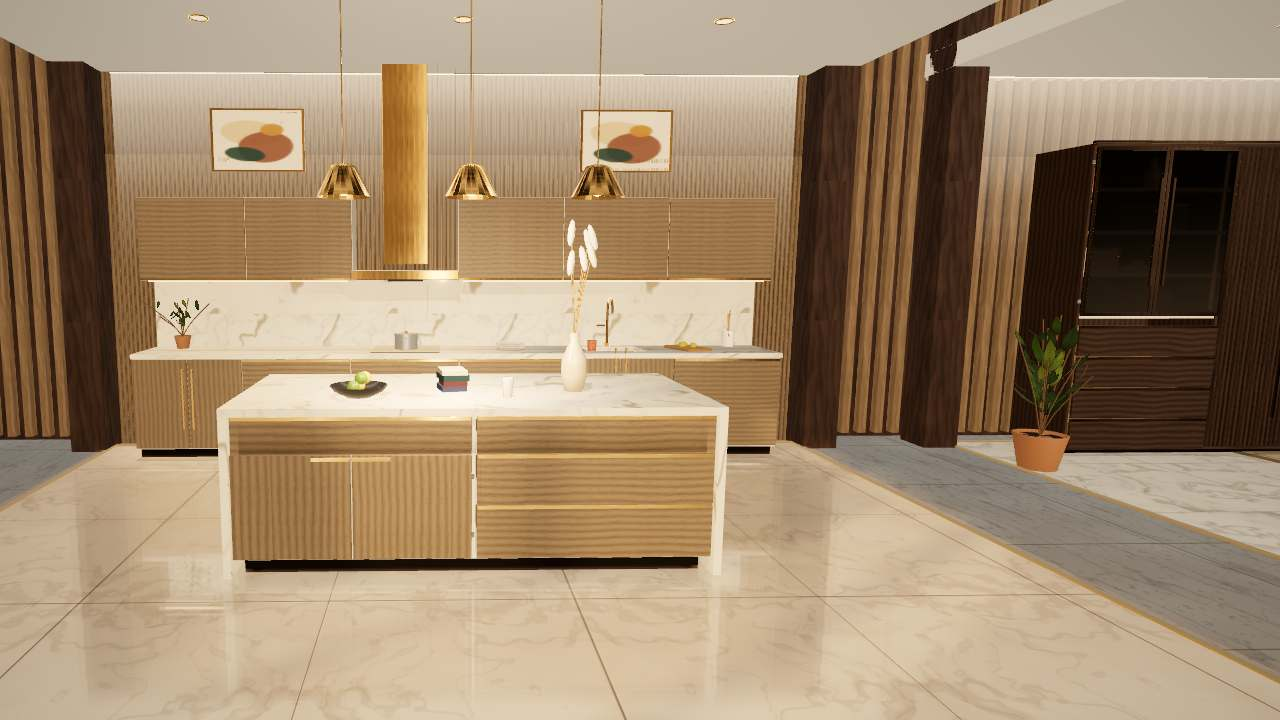
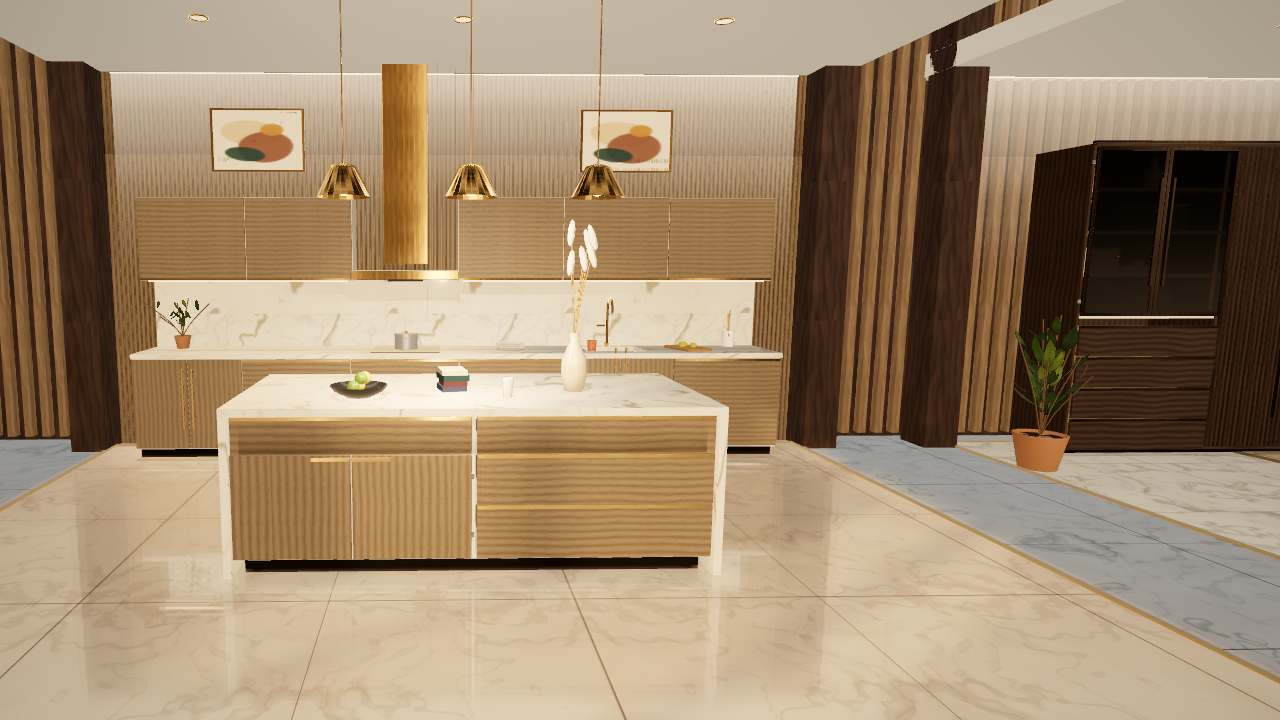
Showroom 3D realism pass 5: mirror steep-angle fade, phase4b screenshots
Claude-Session: https://claude.ai/code/session_017ZaR8CiDH3TQygKUjUtw2u

Changed region(s): [[0.625, 0.5806, 1.0, 0.9472], [0.0, 0.6111, 0.0625, 0.7028]]

diff --git a/src/showroom3d/3d/mirror.js b/src/showroom3d/3d/mirror.js
@@ -11,7 +11,7 @@ uniform sampler2D tMap; uniform float uStr; varying vec4 vProj; varying vec3 vW;
 void main(){
   if (vProj.w <= 0.001) discard;
   vec2 uv = vProj.xy / vProj.w; if (uv.x < 0.0 || uv.x > 1.0 || uv.y < 0.0 || uv.y > 1.0) discard; vec3 V = normalize(cameraPosition - vW);
-  float fres = 0.16 + 0.84 * pow(1.0 - clamp(V.y, 0.0, 1.0), 2.5);
+  float fres = (0.16 + 0.84 * pow(1.0 - clamp(V.y, 0.0, 1.0), 2.5)) * (1.0 - smoothstep(0.6, 0.82, V.y));   // no reflection when looking steeply down at the floor (the mirrored camera then sees nothing useful)
   float r = 0.0045 + 0.004 * clamp(length(cameraPosition - vW) / 14.0, 0.0, 1.0);
   vec4 a = texture2D(tMap, uv) * 0.36 + texture2D(tMap, uv + vec2(r, 0.0)) * 0.16 + texture2D(tMap, uv - vec2(r, 0.0)) * 0.16 + texture2D(tMap, uv + vec2(0.0, r * 1.6)) * 0.16 + texture2D(tMap, uv - vec2(0.0, r * 1.6)) * 0.16;
   float edge = smoothstep(0.0, 0.04, uv.x) * smoothstep(1.0, 0.96, uv.x) * smoothstep(0.0, 0.04, uv.y) * smoothstep(1.0, 0.96, uv.y);
